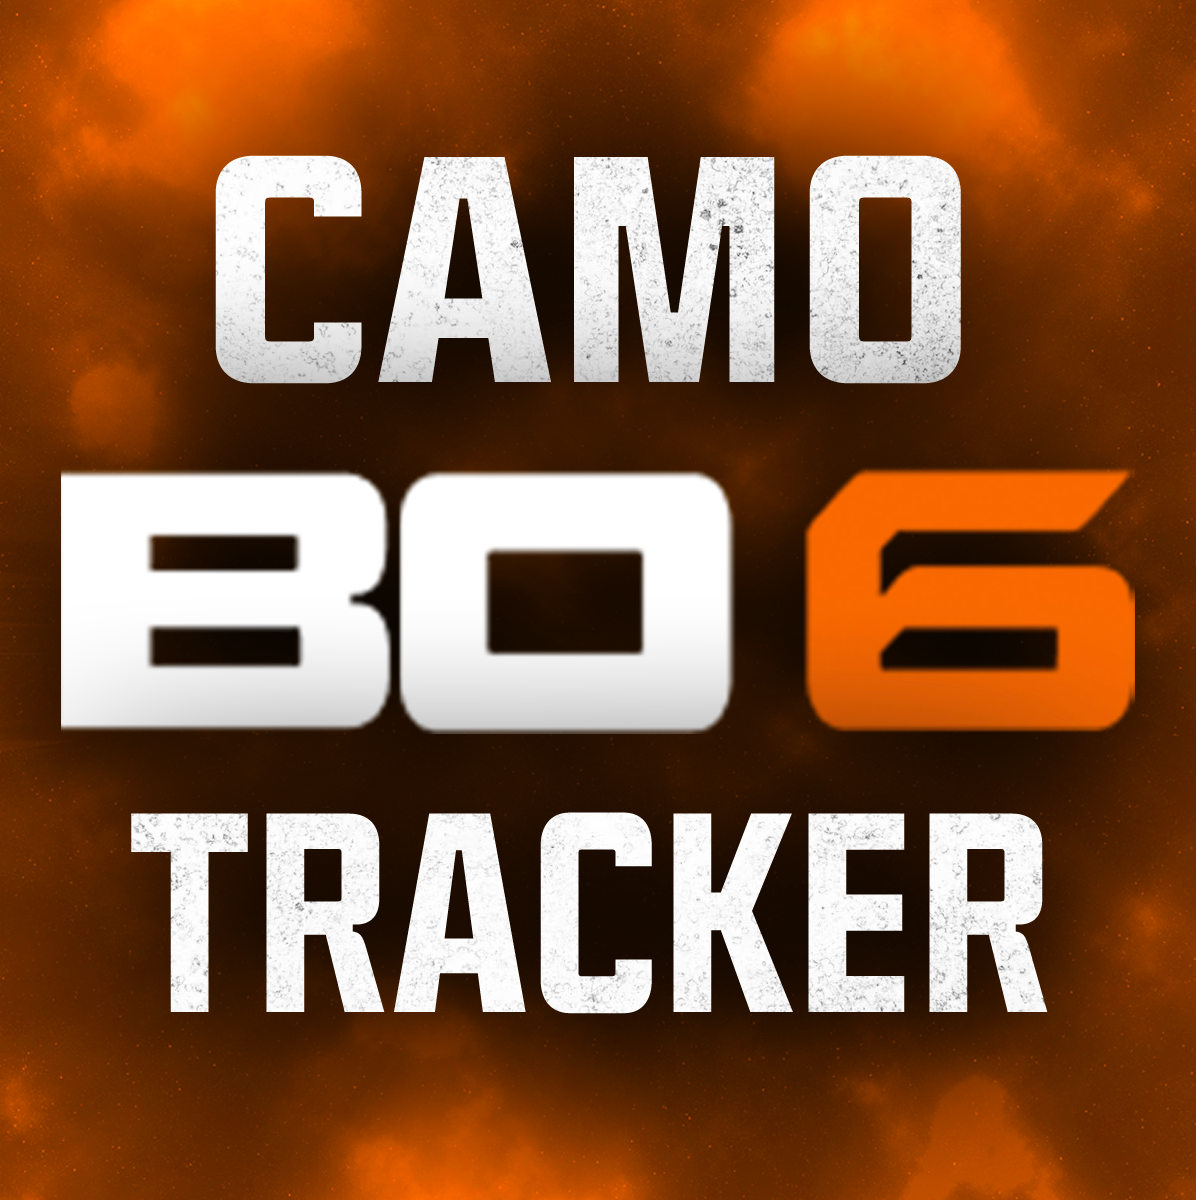
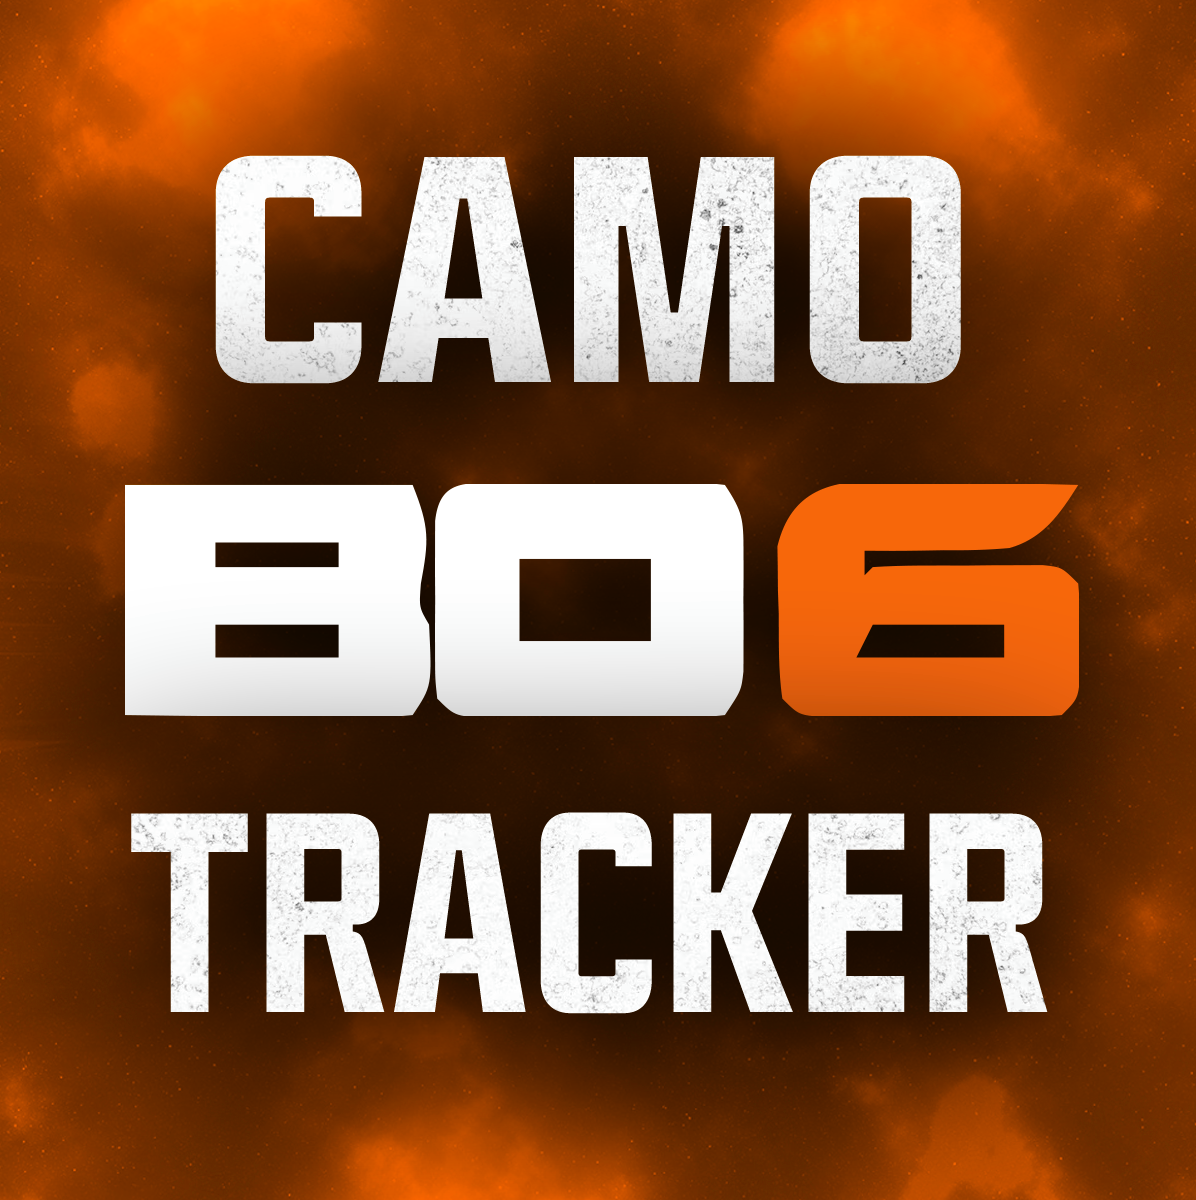
Image updates

Changed region(s): [[0.0, 0.3392, 1.0, 0.6167], [0.4022, 0.4317, 0.5569, 0.555]]

diff --git a/_layouts/default.html b/_layouts/default.html
@@ -3,7 +3,7 @@
 <html lang="{{ site.lang | default: "en-US" }}">
 
   <head>
-    <meta name="apple-itunes-app" content="app-id=6458876511">
+    <meta name="apple-itunes-app" content="app-id=6733240293">
     <meta charset='utf-8'>
     <meta http-equiv="X-UA-Compatible" content="IE=edge">
     <meta name="viewport" content="width=device-width,maximum-scale=2">

diff --git a/bo6.md b/bo6.md
@@ -3,9 +3,9 @@ layout: default
 title: "BO6 Camo Tracker"
 description : Black Ops 6 BO6 WZ Warzone Zombies camo tracker 2024 Gold Diamond Dark Spine Dark Matter Mystic Gold Opal Afterlife Nebula Gold Tiger King's Ransom Catalyst Abyss
 ---
-<a href="https://apps.apple.com/us/app/mw3-camo-tracker/id6458876511?itsct=apps_box_badge&amp;itscg=30200" style="display: inline-block; overflow: hidden; border-radius: 13px; width: 250px; height: 83px;"><img src="https://tools.applemediaservices.com/api/badges/download-on-the-app-store/black/en-us?size=250x83&amp;releaseDate=1667692800" alt="Download on the App Store" style="border-radius: 13px; width: 250px; height: 83px;"></a>
+<a href="https://apps.apple.com/us/app/bo6-camo-tracker/id6733240293" style="display: inline-block; overflow: hidden; border-radius: 13px; width: 250px; height: 83px;"><img src="https://tools.applemediaservices.com/api/badges/download-on-the-app-store/black/en-us?size=250x83&amp;releaseDate=1667692800" alt="Download on the App Store" style="border-radius: 13px; width: 250px; height: 83px;"></a>
 
-<a href="https://apps.apple.com/us/app/mw3-camo-tracker/id6458876511?itscg=30200&amp;itsct=apps_box_appicon" style="width: 170px; height: 170px; border-radius: 22%; overflow: hidden; display: inline-block; vertical-align: middle;"><img src="https://camotracker.djr.li/bo6.png" alt="MW3 Camo Tracker" style="width: 170px; height: 170px; border-radius: 22%; overflow: hidden; display: inline-block; vertical-align: middle;"></a>
+<a href="https://apps.apple.com/us/app/bo6-camo-tracker/id6733240293" style="width: 170px; height: 170px; border-radius: 22%; overflow: hidden; display: inline-block; vertical-align: middle;"><img src="https://camotracker.djr.li/bo6.png" alt="MW3 Camo Tracker" style="width: 170px; height: 170px; border-radius: 22%; overflow: hidden; display: inline-block; vertical-align: middle;"></a>
 
 # BO6 Black Ops 6 Camo Tracker
 Please Note: This app does not automatically fetch your camo progression as it is impossible. You will have to enter your progression manually!
